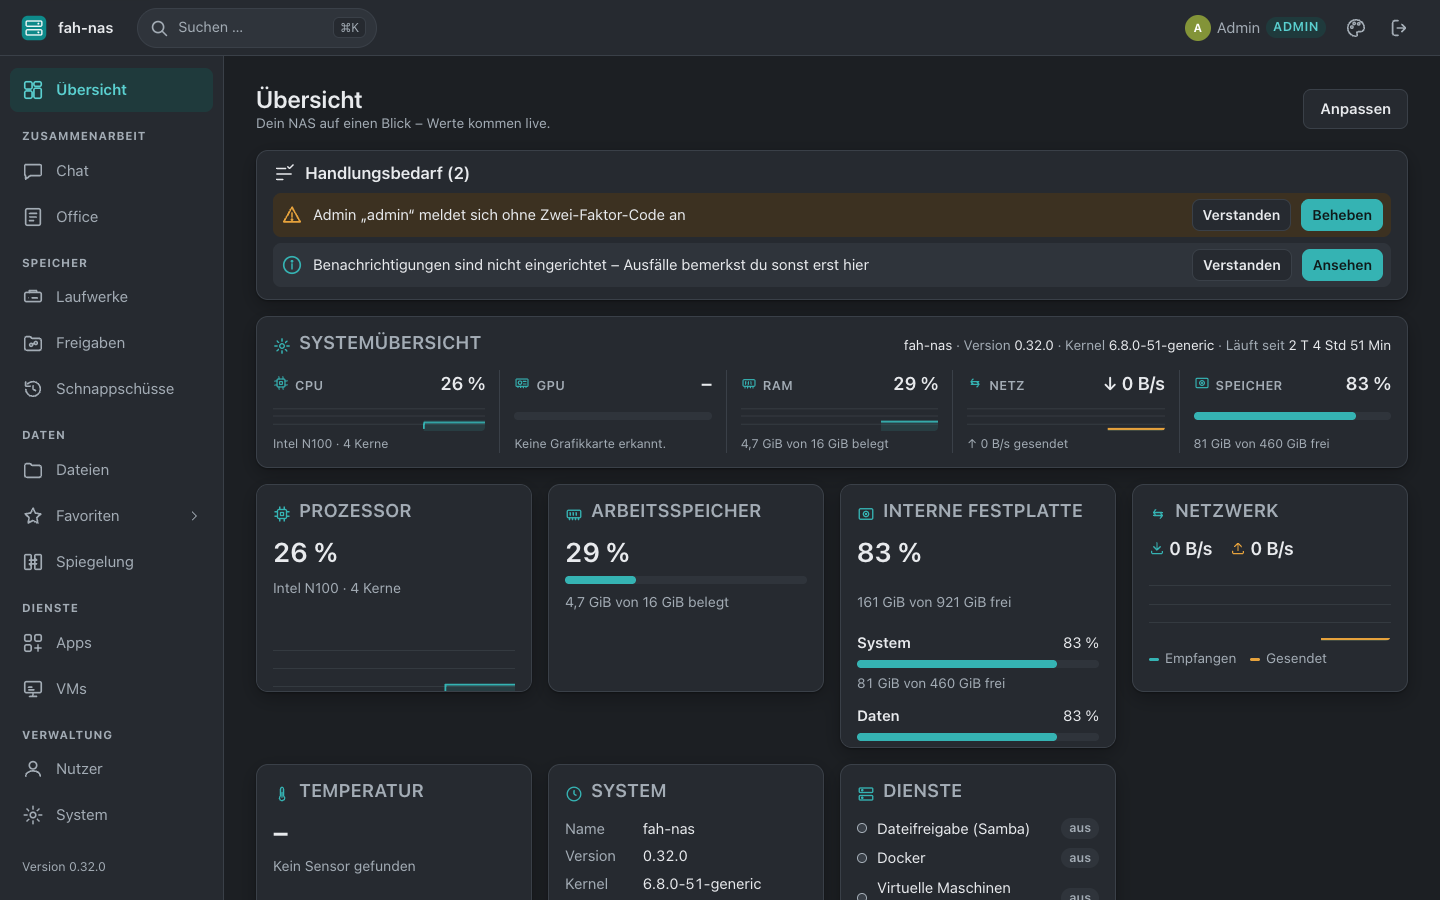
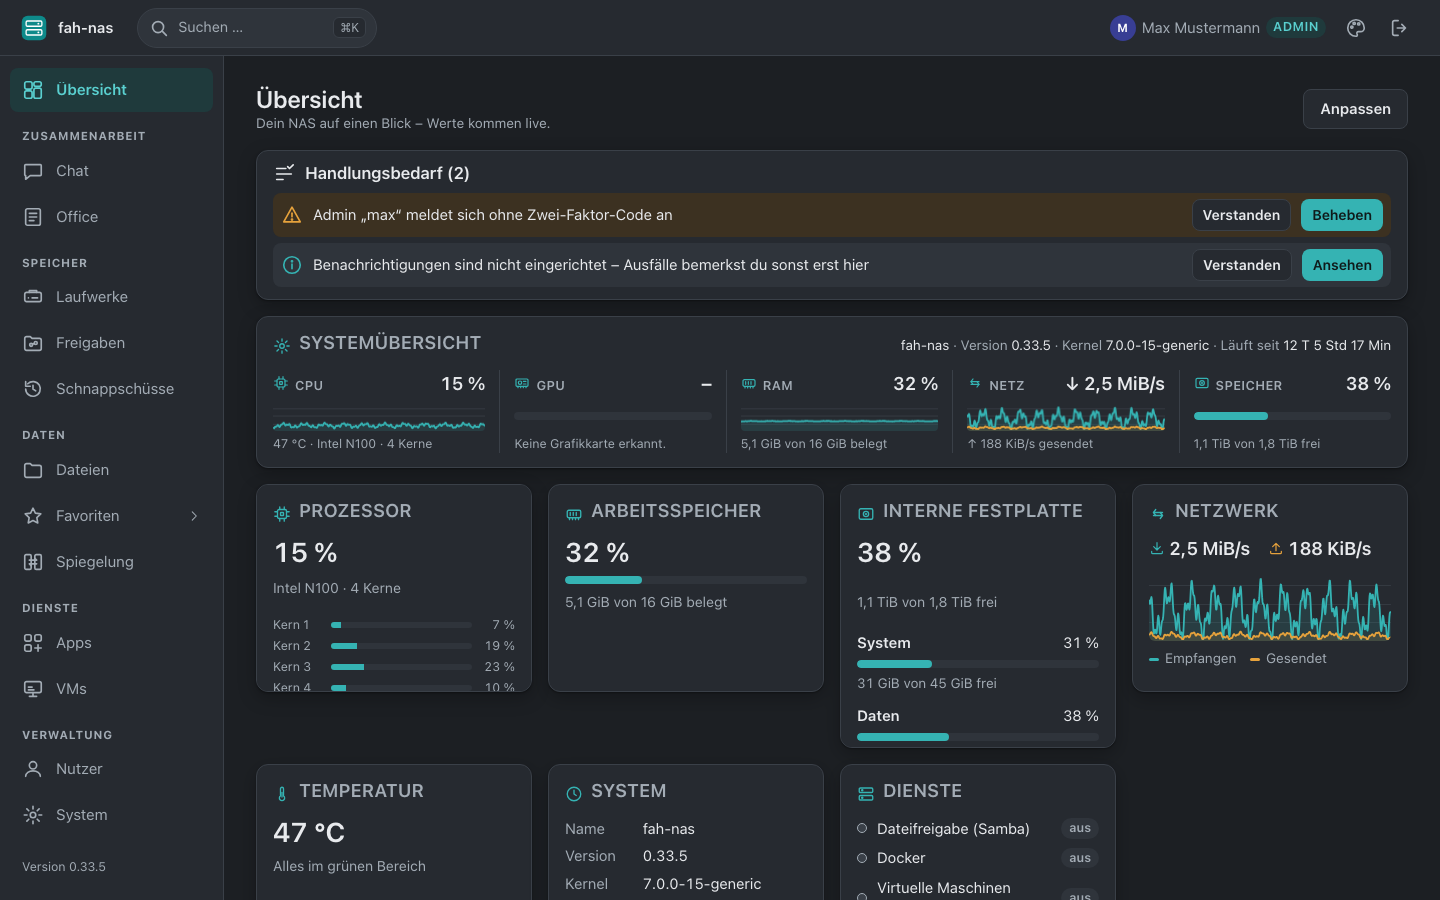
Stand vom 28.11.2026 (FAH-Git abd1c21f87)

diff --git a/.github/README.md b/.github/README.md
@@ -13,15 +13,33 @@ Alle Versionen: [Releases](https://github.com/Arachnolord/fah-nas/releases) · f
 
 ## So sieht es aus
 
-*Aufgenommen mit erfundenen Beispieldaten (Nutzer „alex“, „kim“, „sam“, freie Blender-Filme).*
+*Aufgenommen mit erfundenen Beispieldaten (Konto „max“ = Max Mustermann, Nutzer „alex“, „kim“, „sam“, freie Blender-Filme, Demo-Musik).*
 
-![Übersicht – Systemwerte live, Handlungsbedarf, Dienste](../docs/screenshots/1-uebersicht.png)
+**Übersicht** – oben steht, was zu tun ist; darunter laufen CPU je Kern, Arbeitsspeicher, Netz, Temperatur und die Belegung von System- und Datenplatte live mit.
 
-| Dateien | Freigaben |
-|---|---|
-| ![Dateien](../docs/screenshots/2-dateien.png) | ![Freigaben](../docs/screenshots/3-freigaben.png) |
-| **Nutzer, Rollen, 2FA** | **App-Katalog (Docker)** |
-| ![Nutzer](../docs/screenshots/4-nutzer.png) | ![App-Katalog](../docs/screenshots/5-apps-katalog.png) |
+![Übersicht – Handlungsbedarf und Systemwerte live](../docs/screenshots/1-uebersicht.png)
+
+**Dateien** – der Dateimanager im Browser mit Hochladen (auch ganze Ordner), Papierkorb, Ordnerrechten und Listen- oder Kachelansicht.
+
+![Dateimanager](../docs/screenshots/2-dateien.png)
+
+**Wiedergabeliste** – Musik und Videos laufen ab der angeklickten Datei durch den ganzen Ordner, mit Zurück/Weiter und Zähler; „Info“ öffnet sich darüber, ohne die Wiedergabe anzuhalten.
+
+![Wiedergabeliste im Musikordner](../docs/screenshots/7-wiedergabeliste.png)
+
+**Freigaben** – Ordner fürs Netz (SMB, auch als Time-Machine-Ziel) mit Belegung, Speicherort und Lese-/Schreibrechten je Nutzer.
+
+![Freigaben](../docs/screenshots/3-freigaben.png)
+
+**Nutzer** – Konten und Gruppen mit Rollen, Zwei-Faktor-Anmeldung, angemeldeten Geräten und automatischem Abmelden.
+
+![Nutzer, Rollen, 2FA](../docs/screenshots/4-nutzer.png)
+
+**Apps** – der Katalog installiert Docker-Apps per Klick: geprüfte eingebaute Vorlagen, der Unraid-Katalog, eigene Compose-Apps oder eine App als ZIP.
+
+![App-Katalog](../docs/screenshots/5-apps-katalog.png)
+
+**Am Handy** – dieselbe Oberfläche, schmal gesetzt, die Bereiche liegen unten als Leiste.
 
 <img src="../docs/screenshots/6-handy.png" alt="FAH-NAS am Handy" width="260">
 
